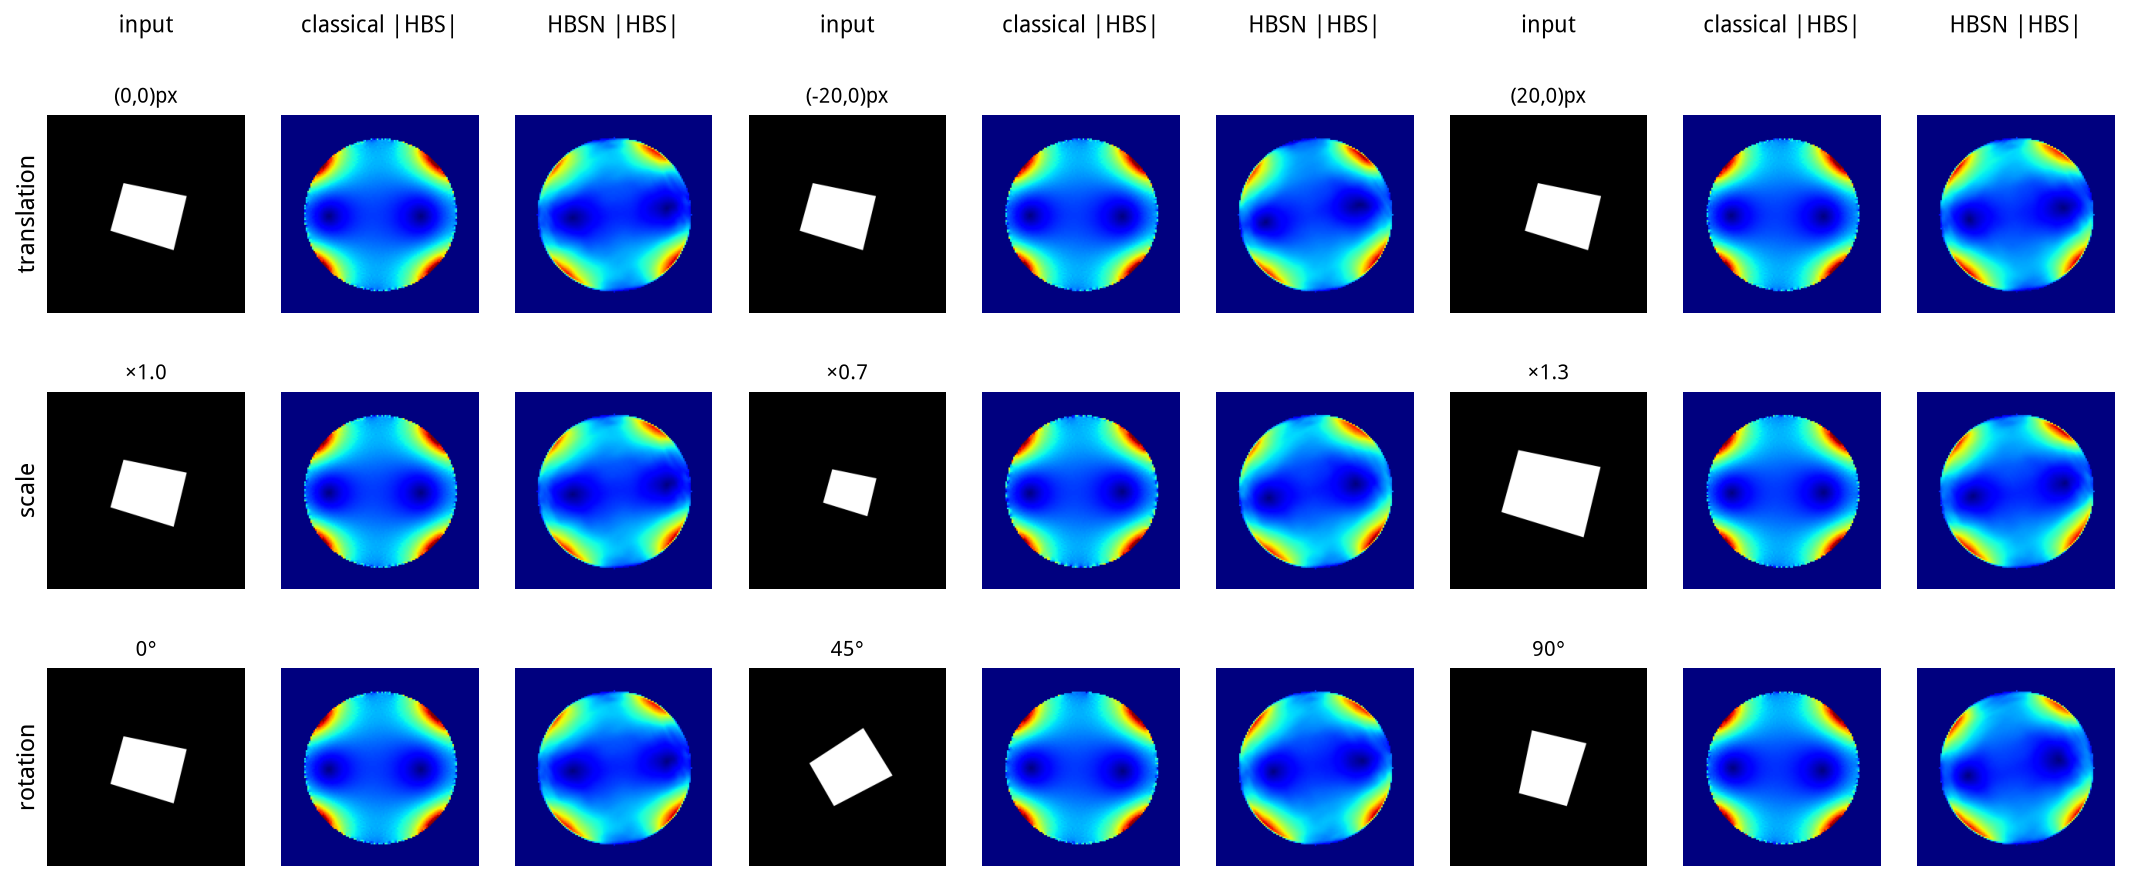
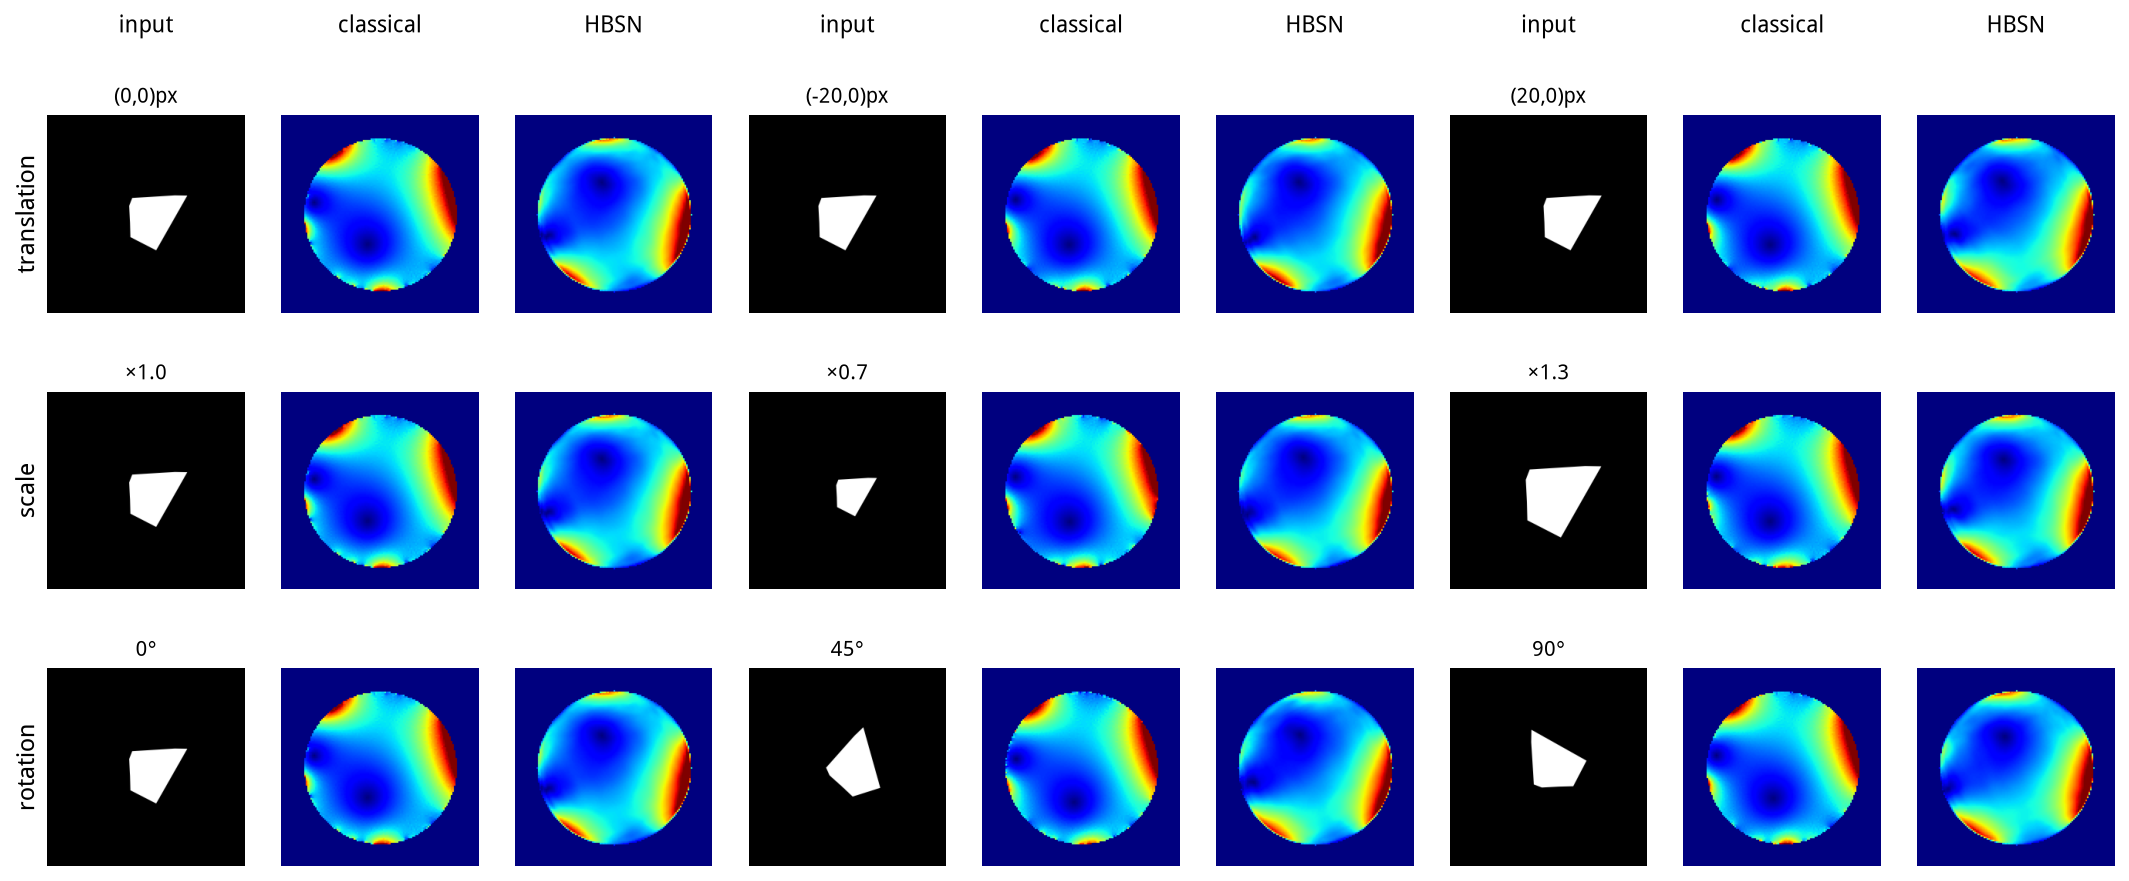
fix: E4 不变性热图改用不规则七边形 + 列标签简化（input/classical/HBSN）

diff --git a/scripts/exp/e4_invariance.py b/scripts/exp/e4_invariance.py
@@ -44,6 +44,11 @@ def gen_pool(n=N_SHAPES, seed=3):
     return pool
 
 
+def irregular_shape():
+    """E4 代表形状：固定 seed 的随机 7 边形（明显不规则、可复现）。"""
+    return shapes.random_polygon(verts=7, rng=np.random.default_rng(3))
+
+
 def render_transformed(bound, offset_px=(0, 0), scale=1.0, rot_deg=0.0):
     """渲染变换后的形状图（变换可见，不做居中归一化）。
 
@@ -79,7 +84,7 @@ def draw_orbit_figure(bound, out_path, z, mask, net):
     每变体显示 [input | classical |HBS| | HBSN |HBS|] 三图——直观验证
     变换后 input 与两法场，以及轨道内场几乎不变。
 
-    bound 用固定不规则四边形（shapes.quadrilateral，可复现）；
+    bound 用固定不规则七边形（irregular_shape，可复现）；
     classical 在个别变体可能失败（近墙翻转/数值），失败格显示空白。
     """
     trans_sets = {
@@ -140,7 +145,7 @@ def draw_orbit_figure(bound, out_path, z, mask, net):
         )
 
     # 列含义标签（顶部，3 组 × input/classical/HBSN）
-    col_labels = ["input", "classical |HBS|", "HBSN |HBS|"] * 3
+    col_labels = ["input", "classical", "HBSN"] * 3
     fig.canvas.draw()
     for c, label in enumerate(col_labels):
         pos = axs[0, c].get_position()
@@ -206,7 +211,7 @@ def main():
     # ---- 轨道场热图：3 变换 × [input + classical|HBS| + HBSN|HBS|] ----
     os.makedirs(OUT_DIR, exist_ok=True)
     draw_orbit_figure(
-        shapes.quadrilateral(),
+        irregular_shape(),
         os.path.join(OUT_DIR, "f_invariance.png"),
         z,
         mask,
